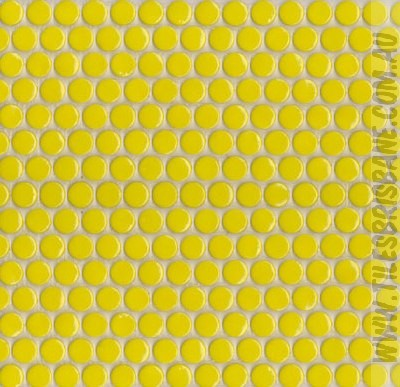
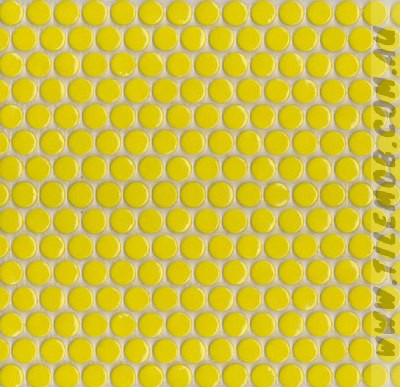
query changes

Changed region(s): [[0.93, 0.062, 1.0, 0.9612]]

diff --git a/shop/detail.php b/shop/detail.php
@@ -583,6 +583,7 @@ include("includes/detail-db-call.php");
 //                                        }
                                        
                                         //echo $result_related;
+                                        // echo $sql;
                     $total_related=mysql_num_rows($result_related);
                                         //echo $total_related;
                                       
@@ -722,9 +723,11 @@ include("includes/detail-db-call.php");
                                         {
                                             $sql .= "AND  item_id NOT IN($relatedProducts) ORDER BY Size DESC LIMIT 0, 24";
                                         }
-                                        //echo $sql;
+                                        // echo $sql.'<br>';
                                         $result_related = mysql_query($sql);
+                                        // echo $result_related.'<br>';
                     $total_related=mysql_num_rows($result_related);
+                                        // echo $total_related.'<br>';
                                        
                     /*if($total_related==0) {
                         $result_related = mysql_query("SELECT * FROM shop_webitems WHERE `Use`='$item_Use' AND item_id!='$item_id' AND WebExport='YES' AND is_active='1' ORDER BY RAND() LIMIT 0, 24");
@@ -735,7 +738,7 @@ include("includes/detail-db-call.php");
                                         {
                                             while($row_related=mysql_fetch_array($result_related)) 
                                             {
-//                                               echo "<pre/>"; print_r($row_related);
+                                              // echo "<pre/>"; print_r($row_related);
                                                 array_push($other_related_shown, $row_related['Code']); 
                                                 $this_id = $row_related['item_id'];
                         $item_name = $row_related['Desc'];
@@ -754,6 +757,7 @@ include("includes/detail-db-call.php");
                                                     $item_display_size1=''; 
                                                     
                                                 }
+                                                // echo "item_display_size1 ".$item_display_size1."<br>";
                                                   //*****Flag Images****
                                       
                                         if($row_related['Country']=='SPAIN')
@@ -827,7 +831,7 @@ include("includes/detail-db-call.php");
                             <div id="thumb'.$this_id.'" class="thumb">
                                 <div class="thumbnail"><a href="detail.php?id='.$this_id.'" title="'.$item_name.'">'.$image1_imgsrc.'</a></div>
                                 <div class="clear"></div>
-                            </div>';*/          if(!in_array( $row_related['Code'], $other_related_shown){
+                            </div>';*/          if(in_array( $row_related['Code'], $other_related_shown)){
                                                 $related_string .= 
                                                          '<div class="thumb">
                                                                 <div class="thumbnail"><a href="detail.php?id='.$this_id.'" title="'.$item_name.'">'.$image1_imgsrc.'</a></div>
@@ -849,7 +853,7 @@ include("includes/detail-db-call.php");
                                                     }
                         }
                     }
-                    //echo $related_string;
+                    echo $related_string;
                     ?>
                     </div>
                     <div class="clear"></div>

diff --git a/shop/admin/upload-xml2Oct2015.php b/shop/admin/upload-xml2Oct2015.php
@@ -91,8 +91,7 @@ function parseXML($xml_file, $sql_table) {
 				//$output .= $column.': '.$items_array[$i][$column].', ';
 				$item_column_value = $items_array[$i][$column];
 				// echo "item_column_value = ".$item_column_value."; empty of item_column_value = ".empty($item_column_value)."<br>";
-				// if(!empty($item_column_value)) {
-				if(strlen($item_column_value)) {
+				if(empty($item_column_value)) {
 					$column_value = $item_column_value;
 					$query_columns .= '`'.$column.'`, ';
 					$safe_column_value = mysql_real_escape_string(trim($column_value));
@@ -105,7 +104,17 @@ function parseXML($xml_file, $sql_table) {
 				}
 				// echo "query_columns = ".$query_columns."; query_updates = ".$query_updates."; $query_values = ".$query_values.";<br>";
 			}
-
+			//start of Update $query_updates is_active 
+			$pos = strpos($query_updates, '`WebExport`=');
+			$split = substr($query_updates,$pos);
+			$pos = strpos($split,', ');
+			$split = substr($split,0,$pos);
+			if($split=="`WebExport`='YES'")
+			{
+			   $query_updates = str_replace("`is_active`=''","`is_active`='1'",$query_updates);
+			   $query_values = substr_replace($query_values,"'1',",strlen($query_values)-4);
+			}
+			//end of Update $query_updates is_active
 			$query_columns = substr(trim($query_columns), 0, -1);
 			$query_values = substr(trim($query_values), 0, -1);
 			$query_updates = substr(trim($query_updates), 0, -1);
@@ -119,7 +128,7 @@ function parseXML($xml_file, $sql_table) {
 				//update existing
 				mysql_query("UPDATE $sql_table SET $query_updates WHERE Code='$item_code' AND is_active='1'");
 				$output .= '<pre>UPDATE '.$sql_table.' SET '.$query_updates.' WHERE Code=\''.$item_code.'\' AND is_active=\'1\'</pre>';	
-				// echo "uupdate is ".$query_updates."<br>";			
+				echo "uupdate is ".$query_updates."<br>";			
 			} else {
 				//insert nonexisting
 				mysql_query("INSERT INTO $sql_table ($query_columns) VALUES ($query_values)") or die(mysql_error());

diff --git a/shop/includes/detail-db-call.php b/shop/includes/detail-db-call.php
@@ -142,7 +142,7 @@ if(!empty($_POST['name']) && !empty($_POST['phone']) && !empty($_POST['email']))
 	//if (!$resp->is_valid) { //check that captcha code is correct
 	
 		$message .= 'WEBSITE ENQUIRY FORM'."\n";
-		$message .= 'TILESBRISBANE.COM'."\n";
+		$message .= 'TILEMOB.COM.AU'."\n";
 		$message .= '******************************************************************'."\n";
 		$message .= 'NAME: '.$name."\n";
 		$message .= 'E-MAIL ADDRESS: '.$email."\n";	
@@ -210,7 +210,7 @@ if($_POST['submit'] ==  "Submit") {
 	$message = $responder = '';
 	
 		$message .= 'BIG QTY DEALS'."\n";
-		$message .= 'TILESBRISBANE.COM'."\n";
+		$message .= 'TILEMOB.COM.AU'."\n";
 		$message .= '******************************************************************'."\n";
 		$message .= 'Description: '.$desc."\n";
 		$message .= 'Qty: '.$qty."\n";	
